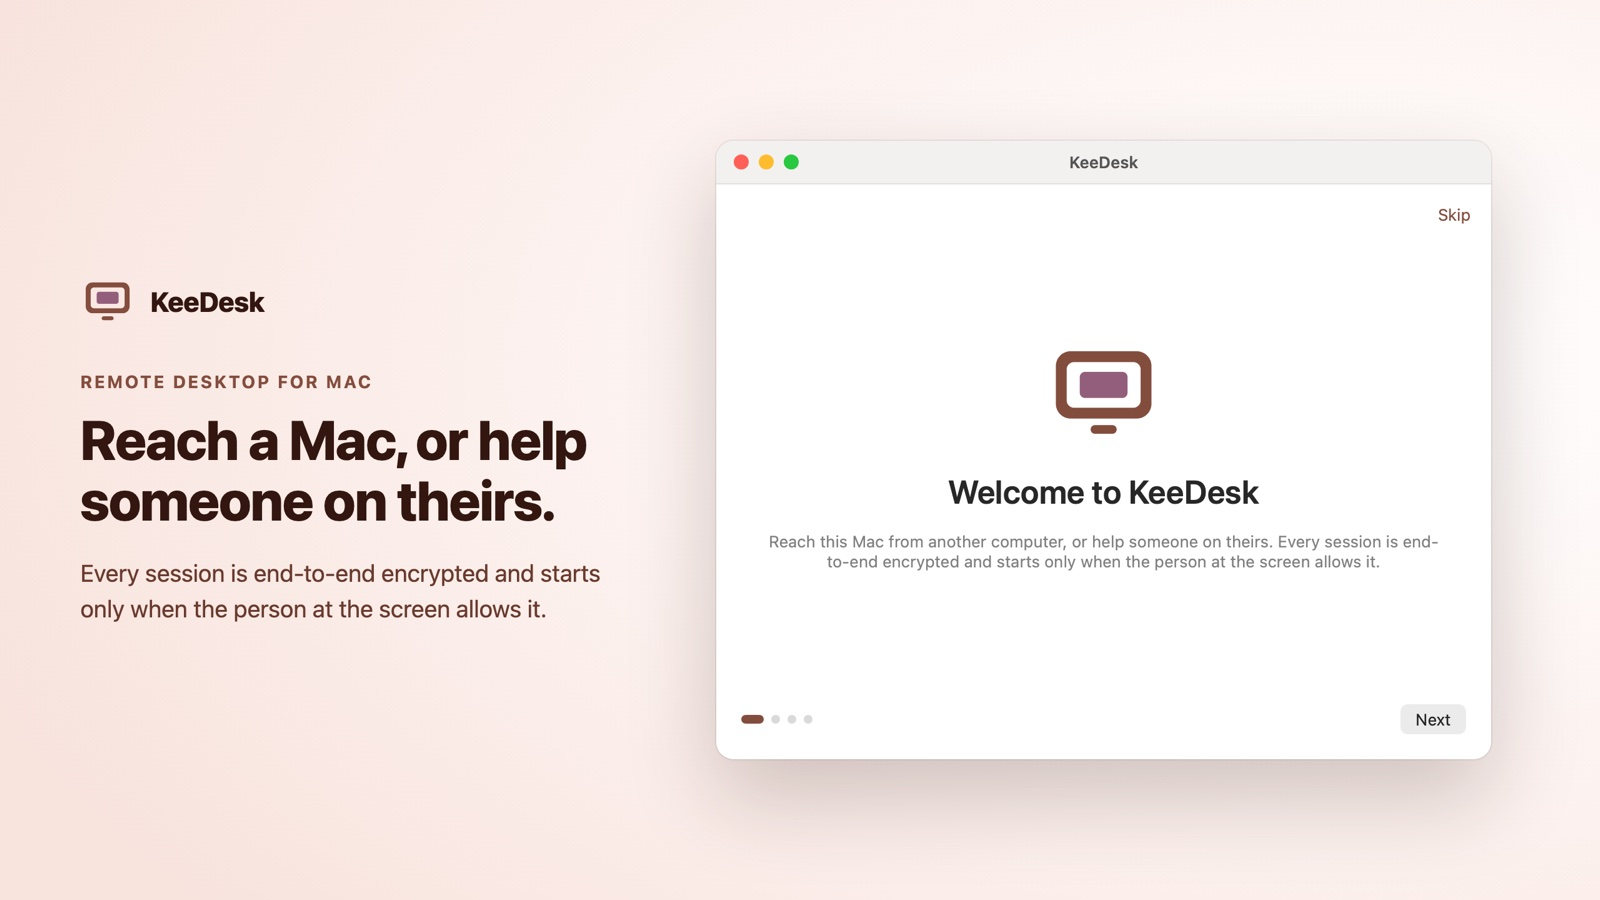
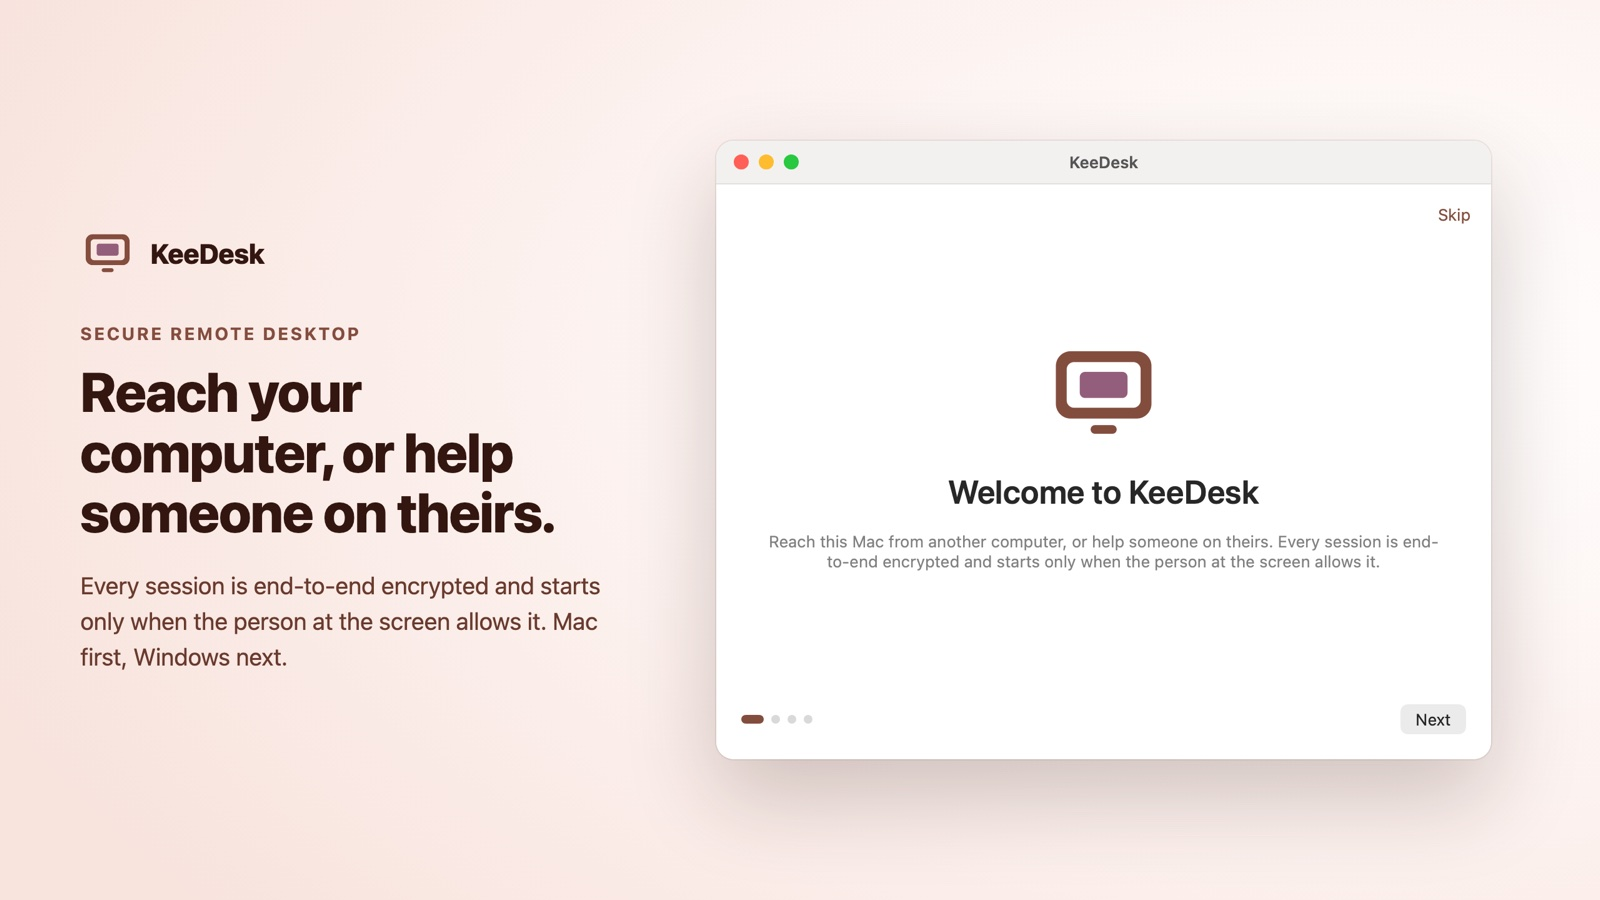
Describe KeeDesk as cross-platform: Mac first, Windows next, Linux planned

Changed region(s): [[0.0312, 0.4044, 0.375, 0.5911], [0.0312, 0.6222, 0.375, 0.7467], [0.0312, 0.2489, 0.2188, 0.3733]]

diff --git a/README.tr.md b/README.tr.md
@@ -1,44 +1,45 @@
 <p align="center">
   <picture>
     <source media="(prefers-color-scheme: dark)" srcset="docs/images/keedesk-logo-dark.png">
-    <img src="docs/images/keedesk-logo-light.png" alt="KeeDesk — EGEROBOT'tan Mac için uzak masaüstü" width="420">
+    <img src="docs/images/keedesk-logo-light.png" alt="KeeDesk — EGEROBOT'tan Mac ve Windows için güvenli uzak masaüstü" width="420">
   </picture>
 </p>
 
-<h1 align="center">KeeDesk — Mac için güvenli uzak masaüstü</h1>
+<h1 align="center">KeeDesk — Mac ve Windows için güvenli uzak masaüstü</h1>
 
 <p align="center">
-  Mac'inize başka bir bilgisayardan ulaşın ya da birine kendi ekranında yardım edin. Uçtan uca şifreli; ekranın başındaki kişi evet demeden hiçbir şey başlamaz.
+  Bilgisayarınıza başka bir bilgisayardan ulaşın ya da birine kendi ekranında yardım edin. Uçtan uca şifreli; ekranın başındaki kişi evet demeden hiçbir şey başlamaz.
 </p>
 
 <p align="center">
   <img alt="Durum" src="https://img.shields.io/badge/durum-geli%C5%9Ftiriliyor-844D3E">
-  <img alt="Platform" src="https://img.shields.io/badge/platform-macOS%2013%2B-33160F">
+  <img alt="Platformlar" src="https://img.shields.io/badge/platformlar-macOS%20%7C%20Windows%20%7C%20Linux-33160F">
   <img alt="Şifreleme" src="https://img.shields.io/badge/%C5%9Fifreleme-u%C3%A7tan%20uca-00696F">
   <a href="README.md"><img alt="English" src="https://img.shields.io/badge/language-English-844D3E"></a>
 </p>
 
 ---
 
-> **KeeDesk geliştiriliyor.** Mac uygulaması bugün kendi Mac'lerimiz arasında çalışıyor; ilk genel sürüm bu sayfada yayınlanacak. Haber almak için yukarıdan **Watch → Custom → Releases** seçin.
+> **KeeDesk geliştiriliyor.** KeeDesk her sistem için kendi diliyle yazılıyor — Mac'te Swift, Windows'ta WinUI — ve hepsi aynı şifreli protokolü konuşur; Mac ile Windows bilgisayar birbirine bağlanır. Önce Mac uygulaması geliyor ve bugün kendi Mac'lerimiz arasında çalışıyor; ilk genel sürüm bu sayfada yayınlanacak. Haber almak için yukarıdan **Watch → Custom → Releases** seçin.
 
 Bu depo **KeeDesk'in GitHub'daki resmî indirme kanalıdır**. Yalnız sürüm dosyaları bulunur, kaynak kod yoktur. Her sürümde Developer ID ile imzalı, Apple onaylı (notarize) kurulum dosyası ve `SHA256SUMS` dosyası olacak.
 
-<img src="docs/images/welcome-tr.jpg" alt="macOS'ta KeeDesk karşılama ekranı: bir Mac'e ulaşın ya da uzaktan yardım edin, uçtan uca şifreli" width="100%">
+<img src="docs/images/welcome-tr.jpg" alt="KeeDesk karşılama ekranı: bilgisayarınıza ulaşın ya da uzaktan yardım edin, uçtan uca şifreli" width="100%">
 
 ## Platformlar
 
 | Platform | Durum |
 |---|---|
 | **macOS 13 ve sonrası** (Apple çipli ve Intel) | Geliştiriliyor — ilk sürüm burada yayınlanacak |
-| **Windows ve Linux** | Planlandı, Mac uygulamasından sonra |
-| **iOS ve Android** | Planlandı, Mac uygulamasından sonra; geliştirmesine henüz başlanmadı |
+| **Windows 10 ve 11** (yerel WinUI uygulaması) | Sırada, Mac uygulamasından sonra |
+| **Linux** | Planlandı |
+| **iOS ve Android** | Planlandı, masaüstü uygulamalarından sonra; geliştirmesine henüz başlanmadı |
 
 ## KeeDesk neler yapar
 
 ### 9 haneli ID ile bağlanın
 
-Her Mac kendi anahtar çiftinden türeyen bir **KeeDesk ID** alır; hiçbir sunucu bu numarayı uyduramaz ya da başkasına veremez. Karşı tarafın ID'sini yazın ve Bağlan'a basın. KeeDesk **aynı ağdaki** öteki KeeDesk cihazlarını da bulur, **son oturumlarınızı** tutar ve onları yeniden adlandırmanıza izin verir.
+Her bilgisayar kendi anahtar çiftinden türeyen bir **KeeDesk ID** alır; hiçbir sunucu bu numarayı uyduramaz ya da başkasına veremez. Karşı tarafın ID'sini yazın ve Bağlan'a basın. KeeDesk **aynı ağdaki** öteki KeeDesk cihazlarını da bulur, **son oturumlarınızı** tutar ve onları yeniden adlandırmanıza izin verir.
 
 ### Onayınız olmadan hiçbir şey başlamaz
 
@@ -46,7 +47,7 @@ Her Mac kendi anahtar çiftinden türeyen bir **KeeDesk ID** alır; hiçbir sunu
 
 - **Kabul penceresi** kimin istediğini gösterir; neler yapabileceğini siz seçersiniz ve oturum sırasında değiştirebilirsiniz.
 - **Gelen bağlantıları** tek düğmeyle kapatın ya da **yalnız şifreyi bilenleri** içeri alın.
-- Kendi Mac'leriniz için **gözetimsiz erişim**; **iki aşamalı doğrulama (TOTP)**, ID **izin listesi** ve **izin profilleri** (yalnız ekran, tam erişim, gözetimsiz ya da size özel) ile.
+- Kendi bilgisayarlarınız için **gözetimsiz erişim**; **iki aşamalı doğrulama (TOTP)**, ID **izin listesi** ve **izin profilleri** (yalnız ekran, tam erişim, gözetimsiz ya da size özel) ile.
 - Bir kez çalışan ve iki saatte sona eren **tek kullanımlık davet kodu**.
 - Biri bağlıyken ekranınızın çevresinde **renkli çerçeve**, isteğe bağlı **oturum sonunda ekran kilidi** ve **bağlantı geçmişi**.
 
@@ -57,17 +58,17 @@ Her Mac kendi anahtar çiftinden türeyen bir **KeeDesk ID** alır; hiçbir sunu
 - Şifre yalnız **tuzlu PBKDF2-SHA256 özeti** (310.000 tur) olarak saklanır, sabit sürede karşılaştırılır; hatalı denemelerden sonra bekleme süresi artar ve **istek seli koruması** devrededir.
 - Oturum kaydedildiğinde karşı tarafa **her zaman bildirilir**.
 
-### Açık dille macOS izinleri
+### Açık dille izinler
 
 <img src="docs/images/permissions-tr.jpg" alt="KeeDesk sistem izinleri: Ekran Kaydı, Erişilebilirlik ve Tam Disk Erişimi, her biri açıklamasıyla" width="100%">
 
-KeeDesk, macOS'un istediği üç izni — Ekran Kaydı, Erişilebilirlik ve Tam Disk Erişimi — gösterir, her birinin ne için gerektiğini söyler ve hepsini tek yerden denetleyip sıfırlamanızı sağlar.
+Mac'te KeeDesk, macOS'un istediği üç izni — Ekran Kaydı, Erişilebilirlik ve Tam Disk Erişimi — gösterir, her birinin ne için gerektiğini söyler ve hepsini tek yerden denetleyip sıfırlamanızı sağlar.
 
 ### Hızlı ve net görüntü
 
 <img src="docs/images/picture-tr.jpg" alt="KeeDesk oturum ayarları: çözünürlük, kare hızı ve bit hızı sınırları" width="100%">
 
-- KeeDesk'in kendi pencerelerini dışarıda bırakan **ScreenCaptureKit** yakalama, **VideoToolbox HEVC ya da H.264** donanım kodlama ve çözme.
+- Donanımla **HEVC ya da H.264** kodlama ve çözme; Mac'te KeeDesk'in kendi pencerelerini dışarıda bırakan ScreenCaptureKit yakalama ve VideoToolbox ile.
 - Uyarlanır kalite (hız · denge · en iyi) ve oturum başına **çözünürlük, kare hızı ve bit hızı** sınırı.
 - Çoklu monitör, ayrı **uzak imleç** kanalı, orijinal ya da pencereye sığdır görünüm.
 
@@ -87,7 +88,7 @@ KeeDesk, macOS'un istediği üç izni — Ekran Kaydı, Erişilebilirlik ve Tam 
 
 - Buluşma ve röle sunucumuz üzerinden internet bağlantısı; ardından NAT delme ve hata düzeltmeli doğrudan UDP (QUIC).
 - KeeDesk hesabı, planlar ve imzalı otomatik güncelleme.
-- Windows ve Linux uygulamaları; ardından iOS ve Android.
+- Windows uygulaması (yerel WinUI, aynı protokol — Mac ve Windows iki yönlü bağlanır); Linux; ardından iOS ve Android.
 - 41 arayüz dili (bugün İngilizce ve Türkçe).
 - Kurumsal: kendi buluşma sunucunuz, toplu kurulum, tek oturum açma ve markalama.
 
@@ -98,4 +99,4 @@ Bkz. [SECURITY.md](SECURITY.md).
 ---
 
 <sub>KeeDesk, **EGEROBOT**'un (EGEROBOT OTOMASYON MÜHENDİSLİK PROJE DANIŞMANLIK SAN. VE TİC. LTD. ŞTİ.) ürünüdür, İzmir, Türkiye. KeeDesk tescilli yazılımdır; bkz. [LICENSE](LICENSE).<br>
-Anahtar kelimeler: uzak masaüstü, Mac uzak masaüstü, uzaktan bağlantı, uzaktan destek, uzaktan erişim, ekran paylaşımı, gözetimsiz erişim, uçtan uca şifreli uzak masaüstü, remote desktop, remote desktop for Mac, remote support, screen sharing, KeeDesk.</sub>
+Anahtar kelimeler: uzak masaüstü, Mac uzak masaüstü, Windows uzak masaüstü, Mac'ten Windows'a bağlanma, Linux uzak masaüstü, uzaktan bağlantı, uzaktan destek, uzaktan erişim, ekran paylaşımı, gözetimsiz erişim, uçtan uca şifreli uzak masaüstü, remote desktop, remote desktop for Mac, remote support, screen sharing, KeeDesk.</sub>

diff --git a/README.md b/README.md
@@ -1,44 +1,45 @@
 <p align="center">
   <picture>
     <source media="(prefers-color-scheme: dark)" srcset="docs/images/keedesk-logo-dark.png">
-    <img src="docs/images/keedesk-logo-light.png" alt="KeeDesk — remote desktop for Mac by EGEROBOT" width="420">
+    <img src="docs/images/keedesk-logo-light.png" alt="KeeDesk — secure remote desktop for Mac and Windows by EGEROBOT" width="420">
   </picture>
 </p>
 
-<h1 align="center">KeeDesk — secure remote desktop for Mac</h1>
+<h1 align="center">KeeDesk — secure remote desktop for Mac and Windows</h1>
 
 <p align="center">
-  Reach your Mac from another computer, or help someone on theirs. End-to-end encrypted, and nothing starts until the person at the screen says yes.
+  Reach your computer from another one, or help someone on theirs. End-to-end encrypted, and nothing starts until the person at the screen says yes.
 </p>
 
 <p align="center">
   <img alt="Status" src="https://img.shields.io/badge/status-in%20development-844D3E">
-  <img alt="Platform" src="https://img.shields.io/badge/platform-macOS%2013%2B-33160F">
+  <img alt="Platforms" src="https://img.shields.io/badge/platforms-macOS%20%7C%20Windows%20%7C%20Linux-33160F">
   <img alt="Encryption" src="https://img.shields.io/badge/encryption-end--to--end-00696F">
   <a href="README.tr.md"><img alt="Türkçe" src="https://img.shields.io/badge/dil-T%C3%BCrk%C3%A7e-844D3E"></a>
 </p>
 
 ---
 
-> **KeeDesk is in development.** The Mac app runs today between our own Macs; the first public release will be published on this page. Select **Watch → Custom → Releases** above to be notified.
+> **KeeDesk is in development.** KeeDesk is built natively for each system — Swift on the Mac, WinUI on Windows — and every version speaks the same encrypted protocol, so a Mac and a Windows PC connect to each other. The Mac app comes first and already runs between our own Macs; the first public release will be published on this page. Select **Watch → Custom → Releases** above to be notified.
 
 This repository is the **official download channel for KeeDesk on GitHub**. It holds release files only — no source code. Every release will carry a Developer ID signed, Apple-notarized installer and a `SHA256SUMS` file.
 
-<img src="docs/images/welcome-en.jpg" alt="KeeDesk welcome screen on macOS: reach a Mac or help someone on theirs, end-to-end encrypted" width="100%">
+<img src="docs/images/welcome-en.jpg" alt="KeeDesk welcome screen: reach your computer or help someone on theirs, end-to-end encrypted" width="100%">
 
 ## Availability
 
 | Platform | Status |
 |---|---|
 | **macOS 13 or later** (Apple silicon and Intel) | In development — first release will appear here |
-| **Windows and Linux** | Planned, after the Mac app |
-| **iOS and Android** | Planned, after the Mac app; development has not started yet |
+| **Windows 10 and 11** (native WinUI app) | Next, after the Mac app |
+| **Linux** | Planned |
+| **iOS and Android** | Planned, after the desktop apps; development has not started yet |
 
 ## What KeeDesk does
 
 ### Connect with a 9-digit ID
 
-Every Mac gets a **KeeDesk ID** derived from its own key pair, so no server can invent or reassign it. Type the other side's ID and press Connect. KeeDesk also finds other KeeDesk devices **on the same network**, keeps your **recent sessions**, and lets you rename them.
+Every computer gets a **KeeDesk ID** derived from its own key pair, so no server can invent or reassign it. Type the other side's ID and press Connect. KeeDesk also finds other KeeDesk devices **on the same network**, keeps your **recent sessions**, and lets you rename them.
 
 ### Nothing starts without your yes
 
@@ -46,7 +47,7 @@ Every Mac gets a **KeeDesk ID** derived from its own key pair, so no server can 
 
 - An **accept window** shows who is asking; you choose what they may do and can change it during the session.
 - **Turn off incoming connections** in one switch, or let in **only people who know the password**.
-- **Unattended access** for your own Macs, with **two-factor authentication (TOTP)**, an **allow list** of IDs and **permission profiles** (view only, full access, unattended or your own).
+- **Unattended access** for your own computers, with **two-factor authentication (TOTP)**, an **allow list** of IDs and **permission profiles** (view only, full access, unattended or your own).
 - A **one-time invitation code** that works once and expires in two hours.
 - A **coloured frame** around your screen while someone is connected, an optional **screen lock when the session ends**, and a **connection history**.
 
@@ -57,17 +58,17 @@ Every Mac gets a **KeeDesk ID** derived from its own key pair, so no server can 
 - Passwords are stored only as a **salted PBKDF2-SHA256 hash** (310,000 rounds), compared in constant time, with growing wait times after wrong attempts and a **request-flood guard**.
 - When a session is recorded, the other side is **always told**.
 
-### Plain-language macOS permissions
+### Plain-language permissions
 
 <img src="docs/images/permissions-en.jpg" alt="KeeDesk system permissions: Screen Recording, Accessibility and Full Disk Access, each explained" width="100%">
 
-KeeDesk shows the three permissions macOS asks for — Screen Recording, Accessibility and Full Disk Access — says what each one is for, and lets you check or reset them in one place.
+On the Mac, KeeDesk shows the three permissions macOS asks for — Screen Recording, Accessibility and Full Disk Access — says what each one is for, and lets you check or reset them in one place.
 
 ### Fast, sharp picture
 
 <img src="docs/images/picture-en.jpg" alt="KeeDesk session settings: resolution, frame rate and bit rate limits" width="100%">
 
-- **ScreenCaptureKit** capture that leaves KeeDesk's own windows out, **VideoToolbox HEVC or H.264** hardware encoding and decoding.
+- Hardware **HEVC or H.264** encoding and decoding; on the Mac through ScreenCaptureKit capture (KeeDesk's own windows left out) and VideoToolbox.
 - Adaptive quality (speed · balanced · best), and per-session limits for **resolution, frame rate and bit rate**.
 - Multiple monitors, a separate **remote cursor** channel, original or fit-to-window view.
 
@@ -87,7 +88,7 @@ KeeDesk shows the three permissions macOS asks for — Screen Recording, Accessi
 
 - Connections over the internet through our rendezvous and relay server, then direct UDP (QUIC) with NAT traversal and error correction.
 - KeeDesk accounts, plans and signed automatic updates.
-- Windows and Linux apps; then iOS and Android.
+- The Windows app (native WinUI, same protocol — Mac and Windows connect both ways); Linux; then iOS and Android.
 - 41 interface languages (English and Turkish today).
 - Business: your own rendezvous server, mass deployment, single sign-on and branding.
 
@@ -98,4 +99,4 @@ See [SECURITY.md](SECURITY.md).
 ---
 
 <sub>KeeDesk is a product of **EGEROBOT** (EGEROBOT OTOMASYON MÜHENDİSLİK PROJE DANIŞMANLIK SAN. VE TİC. LTD. ŞTİ.), İzmir, Türkiye. KeeDesk is proprietary software; see [LICENSE](LICENSE).<br>
-Keywords: remote desktop, remote desktop for Mac, macOS remote access, remote support, remote control, screen sharing, unattended access, end-to-end encrypted remote desktop, remote desktop app, uzak masaüstü, uzaktan bağlantı, uzaktan destek, ekran paylaşımı, KeeDesk.</sub>
+Keywords: remote desktop, remote desktop for Mac, remote desktop for Windows, Mac to Windows remote desktop, macOS remote access, Windows remote access, Linux remote desktop, remote support, remote control, screen sharing, unattended access, end-to-end encrypted remote desktop, remote desktop app, uzak masaüstü, uzaktan bağlantı, uzaktan destek, ekran paylaşımı, KeeDesk.</sub>
